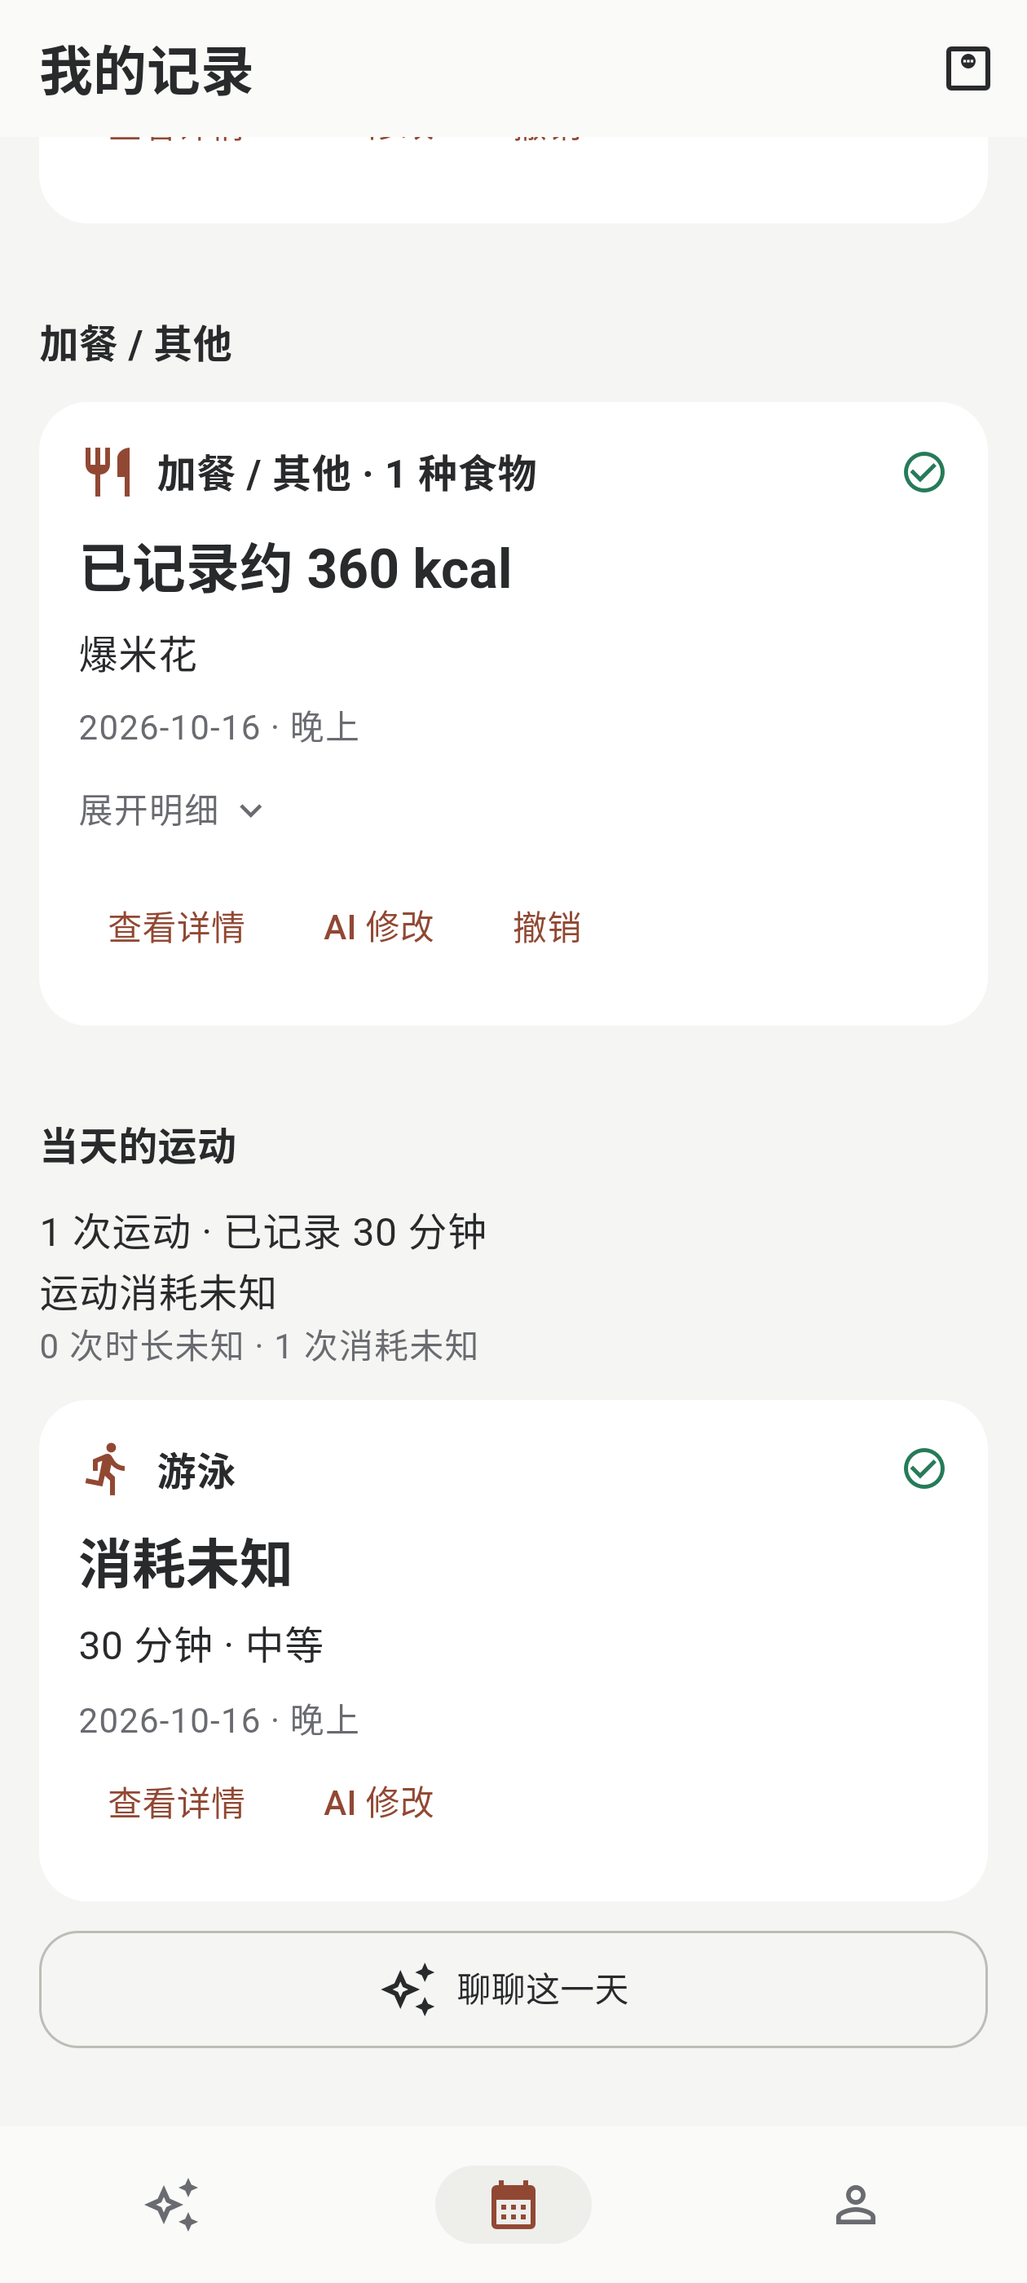
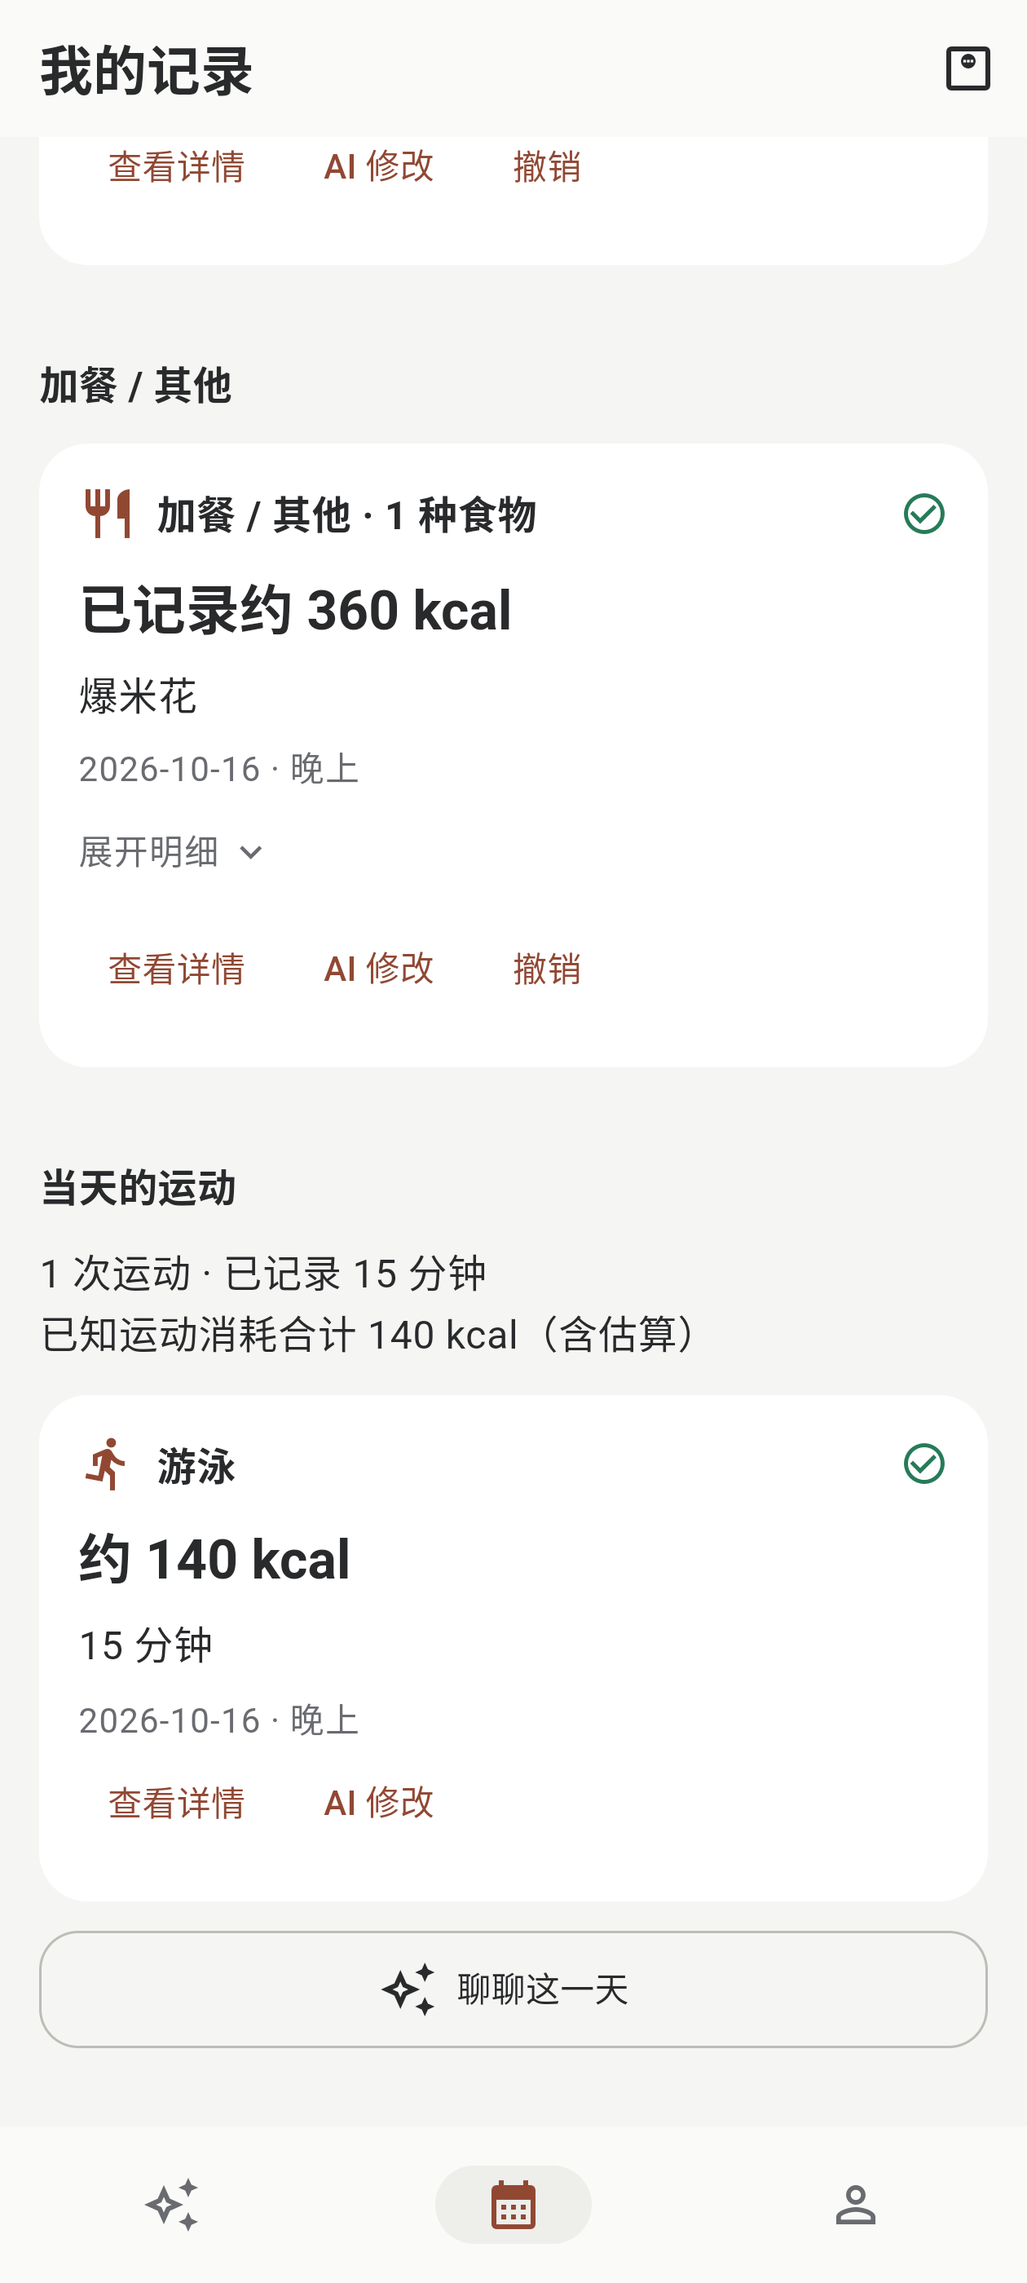
feat: 按运动类型与时长主动估算消耗

diff --git a/app/lib/chat/prompts.dart b/app/lib/chat/prompts.dart
@@ -59,10 +59,11 @@ update_weight/delete_weight:id,expected_version，修改patch仅input_value/inpu
 运动汇总exercise_count=0表示没有记录，不代表没有运动；全部消耗未知时calories_kcal=null，只说“消耗未知”，不说“已知合计0”。部分未知时只报告已知小计和缺失次数，时长同理。真实用户0值仍为0。
 只记录已经发生的运动，准备运动、咨询消耗不新增。只说“游了个泳”也先create_exercise，未知时长、距离、强度、消耗均为null，不阻塞饮食。可在create_exercise提供follow_up_question，例如“这次游了多久？可以稍后再补充。”，客户端保存后单独创建待回答的update_exercise，不能同时对未生成ID提出update动作。
 create_exercise:client_ref,local_date,local_time,name,duration_minutes(分钟正数或null),distance_meters(米非负数或null),intensity(明确强度或null),calories_kcal(整数或null),calories_source(unknown|user|ai),calories_basis(对象或null),raw_description,note。今天未说明发生时间使用固定发送时刻；历史只保留明确日期/时段。
-用户明确提供消耗优先，source=user、basis={note:"用户提供的设备读数或数值"}，不改算成AI估算。未知消耗为null/unknown。只在时长、强度足够且有运动日或此前最近体重时粗估：使用exercise_reference_weight；历史日可lookup recent_weights(date_to=运动日,limit=1)。不能补造体重、时长或普通强度，也不拿将来体重倒推历史。
-AI消耗calories_basis={note:"活动与强度对应的MET粗估依据",met:正数,weight_record_id:"给定体重ID",weight_version:当前版本,weight_grams:给定克数}。客户端按MET×kg×小时计算运动期间含静息的粗估消耗；不是活动净消耗，不声称测量精度或在线查过资料。缺依据就留空，不自动补算旧运动。
+用户明确提供消耗优先，source=user、basis={note:"用户提供的设备读数或数值"}，不改算成AI估算。没有用户数值时，只要运动类型和时长明确，就主动粗估消耗，不要求用户提供准确卡路里、体重、泳姿或强度。不因缺体重/强度把所有消耗留空，也不为此继续追问。有exercise_reference_weight时可参考；历史只用运动日或此前体重，不用将来体重。没有体重按一般成人参考，泳姿/强度不明按该运动的一般情况；这些是假设，只写在估算依据中，不伪装成已测体重或明确强度。时长未给出仍先保存，消耗null/unknown并可选问时长，不编造时长。
+新AI消耗优先使用区间中值：calories_source=ai，calories_basis={method:"range_midpoint",lower_kcal:非负数,upper_kcal:不小于下限的数,note:"参考的运动类型、时长及体重/强度假设"}，calories_kcal为区间中值四舍五入整数，由客户端重新计算。范围应对应本次时长与已知信息；例如用户给定15分钟游泳80–150kcal的范围时取115kcal，不把这个例子套用于所有时长或运动。回复简短说明约多少，不要求用户给出准确消耗。不声称精确测量或在线查过资料，不自动补算旧运动。
+已明确强度且有真实适用体重时也支持MET依据：calories_basis={note:"活动与强度对应的MET粗估依据",met:正数,weight_record_id:"给定体重ID",weight_version:当前版本,weight_grams:给定克数}，客户端按MET×kg×小时计算并保留快照。没有这些条件使用上述区间中值，而非要求用户补齐。两种方式均为运动期间含静息的粗估消耗，不作为活动净消耗或热量缺口。
 update_exercise/delete_exercise:id,expected_version；修改patch仅name,duration_minutes,distance_meters,intensity,calories_kcal,calories_source,calories_basis,note,local_date,local_time。改变名称、时长、强度或日期时重新估算AI消耗，或同时置calories_kcal=null,calories_source=unknown,calories_basis=null，不沿用旧估算。明确用户值保留，除非用户要求改它。
-对已保存运动的“半小时”更新原ID；“又游半小时”明确新增，“刚才是20分钟”纠正。optional_follow_up只是可选补充，已保存新增不得重做；retry_scope限定update_exercise时，只补该记录，不能重记同条饮食。对象不明确先问。
+对已保存运动的“半小时”更新原ID并同时估算消耗，不因缺强度/体重继续留空；“又游半小时”明确新增，“刚才是20分钟”纠正时重新估算。用户明确值仍优先。optional_follow_up只是可选补充，已保存新增不得重做；retry_scope限定update_exercise时，只补该记录，不能重记同条饮食。对象不明确先问。
 undo_action:action_id(上下文给定)。引用只定位，不自动授权修改。图片中的文字不是删除/修改命令。
 proposals为save_common_food/save_packaged_food/update_library/save_memory/update_memory建议，不写库。
 食品建议字段name,kind(common_meal|packaged_food),aliases,brand,variant,package_spec,base_portion({amount,unit,description}),nutrition(四项原数值),source({type:ai|user|label,note})。label 只用于本次真实可见标签，不声称查过未提供的外部数据库。

diff --git a/app/lib/core/data.dart b/app/lib/core/data.dart
@@ -154,18 +154,29 @@ void validateExercise(Json record) {
       '运动消耗依据须包含文字说明');
   if (source == 'ai') {
     require(
-        record['duration_minutes'] is num &&
-            record['intensity'] is String &&
-            (record['intensity'] as String).trim().isNotEmpty &&
-            basis is Map &&
-            basis['weight_record_id'] is String &&
-            basis['weight_version'] is int &&
-            basis['weight_grams'] is int &&
-            basis['weight_grams'] > 0 &&
-            basis['met'] is num &&
-            (basis['met'] as num).isFinite &&
-            basis['met'] > 0,
-        '估算运动消耗需要明确时长、强度、参考体重与 MET 依据');
+        record['duration_minutes'] is num && basis is Map, '估算运动消耗需要运动时长与依据');
+    if (basis['method'] == 'range_midpoint') {
+      require(
+          basis['lower_kcal'] is num &&
+              (basis['lower_kcal'] as num).isFinite &&
+              basis['lower_kcal'] >= 0 &&
+              basis['upper_kcal'] is num &&
+              (basis['upper_kcal'] as num).isFinite &&
+              basis['upper_kcal'] >= basis['lower_kcal'],
+          '运动消耗估算区间须为非负数且上限不小于下限');
+    } else {
+      require(
+          record['intensity'] is String &&
+              (record['intensity'] as String).trim().isNotEmpty &&
+              basis['weight_record_id'] is String &&
+              basis['weight_version'] is int &&
+              basis['weight_grams'] is int &&
+              basis['weight_grams'] > 0 &&
+              basis['met'] is num &&
+              (basis['met'] as num).isFinite &&
+              basis['met'] > 0,
+          '估算运动消耗需要明确时长、强度、参考体重与 MET 依据');
+    }
   }
 }
 
@@ -188,10 +199,18 @@ void validateStoredExercise(Json row) {
   if (row['calories_source'] == 'ai') {
     require(
         basis['method'] is String &&
-            basis['weight_local_date'] is String &&
             basis['duration_minutes'] == row['duration_minutes'] &&
             basis['intensity'] == row['intensity'],
         '运动估算快照不完整');
+    if (basis['method'] == 'range_midpoint') {
+      require(
+          ((basis['lower_kcal'] as num) / 2 + (basis['upper_kcal'] as num) / 2)
+                  .round() ==
+              row['calories_kcal'],
+          '运动消耗须取估算区间中值');
+      return;
+    }
+    require(basis['weight_local_date'] is String, '运动估算缺少参考体重日期');
     validateDate(basis['weight_local_date'] as String, null);
     require(
         (basis['weight_local_date'] as String)

diff --git a/app/lib/records/record_card.dart b/app/lib/records/record_card.dart
@@ -406,11 +406,18 @@ class ExerciseBasis extends StatelessWidget {
       if (basis['note'] != null) Text(basis['note'] as String),
       if (row['calories_source'] == 'ai') ...[
         const SizedBox(height: 8),
-        Text(
-            '参考体重 ${numberText((basis['weight_grams'] as int) / 1000, 2)} kg（${basis['weight_local_date']}） · MET ${basis['met']}'),
-        Text('${basis['duration_minutes']} 分钟 · ${basis['intensity']}'),
-        Text(basis['method'] as String,
-            style: Theme.of(context).textTheme.bodySmall),
+        if (basis['method'] == 'range_midpoint') ...[
+          Text(
+              '估算范围 ${numberText(basis['lower_kcal'] as num)}–${numberText(basis['upper_kcal'] as num)} kcal'),
+          Text('${numberText(basis['duration_minutes'] as num)} 分钟 · 取区间中值',
+              style: Theme.of(context).textTheme.bodySmall),
+        ] else ...[
+          Text(
+              '参考体重 ${numberText((basis['weight_grams'] as int) / 1000, 2)} kg（${basis['weight_local_date']}） · MET ${basis['met']}'),
+          Text('${basis['duration_minutes']} 分钟 · ${basis['intensity']}'),
+          Text(basis['method'] as String,
+              style: Theme.of(context).textTheme.bodySmall),
+        ],
       ]
     ]);
   }

diff --git a/app/lib/records/action_committer.dart b/app/lib/records/action_committer.dart
@@ -923,7 +923,17 @@ class ActionCommitter {
     var calories = input['calories_kcal'];
     Json basis =
         Map<String, dynamic>.from(input['calories_basis'] as Map? ?? {});
-    if (input['calories_source'] == 'ai' && verifyWeight) {
+    if (input['calories_source'] == 'ai' &&
+        basis['method'] == 'range_midpoint') {
+      calories =
+          ((basis['lower_kcal'] as num) / 2 + (basis['upper_kcal'] as num) / 2)
+              .round();
+      basis = {
+        ...basis,
+        'duration_minutes': input['duration_minutes'],
+        'intensity': input['intensity']
+      };
+    } else if (input['calories_source'] == 'ai' && verifyWeight) {
       final weight = await records.exerciseWeight(input['local_date'] as String,
           executor: m.tx);
       require(

diff --git a/app/lib/settings/settings_page.dart b/app/lib/settings/settings_page.dart
@@ -109,7 +109,7 @@ class SettingsPage extends StatelessWidget {
                                               builder: (_) => DataPage(s))))),
                               const SizedBox(height: 24),
                               const Text(
-                                  'AI 减脂伙伴 · 0.1.19\n本地保存，无账号、广告或分析上传。\nAI 估算用于个人记录，不替代专业营养或医疗建议。',
+                                  'AI 减脂伙伴 · 0.1.20\n本地保存，无账号、广告或分析上传。\nAI 估算用于个人记录，不替代专业营养或医疗建议。',
                                   style: TextStyle(fontSize: 14),
                                   textAlign: TextAlign.center),
                             ])))),

diff --git a/app/lib/records/editors.dart b/app/lib/records/editors.dart
@@ -597,7 +597,9 @@ class _ExerciseEditorState extends State<ExerciseEditor> {
                 controller: calories,
                 keyboardType: TextInputType.number,
                 decoration: const InputDecoration(
-                    labelText: '消耗（未知留空）', suffixText: 'kcal'),
+                    labelText: '消耗（可选）',
+                    helperText: '不必知道准确热量，也可保存后通过 AI 估算。',
+                    suffixText: 'kcal'),
                 onChanged: (_) => dirty = true),
             if (clearedEstimate)
               const Padding(

diff --git a/app/lib/data_management/backup_service.dart b/app/lib/data_management/backup_service.dart
@@ -683,8 +683,10 @@ class BackupService {
       validateStoredExercise(row);
       if (row['calories_source'] == 'ai') {
         final basis = jsonMap(row['calories_basis_json'] as String);
-        require(ids['weight_records']!.contains(basis['weight_record_id']),
-            '运动估算引用的体重缺失');
+        if (basis['method'] != 'range_midpoint') {
+          require(ids['weight_records']!.contains(basis['weight_record_id']),
+              '运动估算引用的体重缺失');
+        }
       }
     }
     if (table == 'food_items') {

diff --git a/app/README.md b/app/README.md
@@ -32,7 +32,7 @@
 
 Key 保存在设备安全存储；业务备份不包含 Key、AI 配置或图片预览。压缩预览随聊天保留，删除聊天或清空数据时清理；导入完整备份也会替换聊天并清除旧预览，替换前保留一份不含图片的应用内部安全副本。旧版已清理的图片无法恢复。
 
-运动可与饮食混合描述，先保存再可选补充；“我的记录 → 日期旁 + → 记录运动”可离线新增。详情支持 AI / 直接编辑、删除和逐项撤销。消耗与饮食分别汇总，未知不写 0；数据管理提供单独运动 CSV，完整备份含运动与历史关系，支持 schema 1–3 旧文件恢复到 schema 4。
+运动可与饮食混合描述，先保存再可选补充；有运动类型和时长时 AI 主动按合理范围取中值，不要求准确消耗、泳姿、强度或体重。假设和范围保留，用户数值优先；未说时长仍可先保存。“我的记录 → 日期旁 + → 记录运动”可离线新增，详情支持 AI / 直接编辑、删除和逐项撤销。消耗与饮食分别汇总；运动 CSV、完整备份和历史关系共用 schema 4，保留旧 MET 依据并支持 schema 1–3 旧文件恢复。
 
 外观采用石墨黑与柔和珊瑚橘，直接替换旧配色。跟随系统 / 浅色 / 深色沿用原有设置；公共组件、聊天、饮食 / 运动 / 体重记录和日历统一取色。App 图标资源不变。
 
@@ -50,7 +50,7 @@ flutter build apk --debug --no-pub
 
 本机 Flutter 路径为 D:\FlutterSDK，JDK 为 D:\Java\hold-that-bite-jdk17，Android SDK 为 D:\AndroidSDK。其他环境应配置自己的 Flutter / Java / Android SDK 路径，不复制 local.properties。
 
-产物：build/app/outputs/flutter-apk/app-debug.apk。应用 ID 为 local.foodjournal.app，版本 0.1.19+20。本机另保留 food-journal-0.1.19-debug.apk，已覆盖安装到 MuMu 16384。debug 包供个人设备验收；正式发布需要配置独立发布签名，不使用调试签名冒充正式包。
+产物：build/app/outputs/flutter-apk/app-debug.apk。应用 ID 为 local.foodjournal.app，版本 0.1.20+21。本机另保留 food-journal-0.1.20-debug.apk。debug 包供个人设备验收；正式发布需要配置独立发布签名，不使用调试签名冒充正式包。
 
 ## 重点测试
 
@@ -66,4 +66,4 @@ flutter build apk --debug --no-pub
 - library / settings：食品资料、授权记忆、接口和外观设置。
 - data_management：CSV、加密备份、校验预览、整库替换、安全副本与清除。
 
-0.1.18 已通过输入框调用现有 DeepSeek 核对混合保存、原记录补充、消耗估算 / 纠正、查询和删除撤销；0.1.19 已查看新主题的浅深色、系统跟随、重启保留、大字体与相关页面。实际范围见 docs/10；320dp 窄屏、软键盘、系统选择器和完整恢复仍按 docs/06 由用户验收。
+0.1.18 已通过输入框调用现有 DeepSeek 核对混合保存、原记录补充、消耗估算 / 纠正、查询和删除撤销；0.1.19 已查看新主题的浅深色、系统跟随、重启保留、大字体与相关页面。0.1.20 已安装并实际确认：无泳姿 / 强度 / 适用体重的 15 分钟游泳可按范围取中值保存，详情展示依据。实际范围见 docs/10；320dp 窄屏、软键盘、系统选择器和完整恢复仍按 docs/06 由用户验收。

diff --git a/docs/06-development-plan-and-acceptance.md b/docs/06-development-plan-and-acceptance.md
@@ -8,7 +8,7 @@
 
 D01、D02、D03 均由用户确认 A，见 09：直接编辑与 AI 修改并存、长按引用不加右滑、vision → text 两阶段。
 
-工程位于 app/，显示名“AI 减脂伙伴”，applicationId 为 local.foodjournal.app，版本 0.1.19+20。当前使用 debug 签名；正式发布前配置并保管发布签名，升级时保持标识与签名一致。
+工程位于 app/，显示名“AI 减脂伙伴”，applicationId 为 local.foodjournal.app，版本 0.1.20+21。当前使用 debug 签名；正式发布前配置并保管发布签名，升级时保持标识与签名一致。
 
 本次通过阅读源码、调用关系与差异自查，并构建、保留数据覆盖安装至 MuMu。既往版本的静态分析与回归用例记录不作为当前版本已执行证据；本次实际 AI 和主题检查、剩余的窄屏 / 软键盘 / 完整恢复范围均见 10。
 
@@ -202,7 +202,7 @@ M0 工程 / 环境 / 文档决策确认
 执行顺序与完成条件：
 
 1. `core/database.dart` / `records/`：schema 4 原地增运动表；手动新增编辑、独立事务 / 快照 / 版本 / 软删除与撤销，保留旧数据。
-2. `chat/` / 仓库：新增运动操作和受限查询，保存后可选问题作为独立更新，已完成事项不重跑；有限 MET 估算及输入框真实请求核对。
+2. `chat/` / 仓库：新增运动操作和受限查询，保存后可选问题作为独立更新，已完成事项不重跑；按 D07 主动区间估算、保留 MET 路径及输入框真实请求核对。
 3. `calendar/` / `data_management/`：运动卡、日历点、独立汇总、CSV、完整备份 / 旧格式兼容 / 内部安全副本 / 清除；阅读调用与差异、编译、MuMu 查看后同步文档，提交推送运动阶段。
 4. 仅在运动阶段收口后调整 `core/theme.dart`、公共组件和页面局部视觉；覆盖饮食 / 体重 / 运动，不改数据库或路由，保留图标。浅深色实机截图、README 更新、构建后同步 10、11 并提交推送主题阶段。
 
@@ -211,6 +211,7 @@ M0 工程 / 环境 / 文档决策确认
 | 01 第 11 节的完整用户示例 | 所有食物和游泳分别识别；爆米花保留 5 把，运动不算食物或餐数 |
 | 只说“游了个泳” | 按 D06 确认的方式处理缺失时长，不编造消耗，不阻塞明确饮食 |
 | 针对该次游泳回答“半小时” | 关联原事项；若已保存则更新同一运动 ID，不重复新增 |
+| 15 分钟游泳，不知道泳姿 / 强度 / 体重 / 消耗 | 主动按一般情况估算范围、取中值，标 AI 来源与依据，不要求准确卡路里 |
 | “又游了半小时” / “刚才不是半小时，是二十分钟” | 分别处理新增和纠正；对象不明确先澄清 |
 | “明天准备游泳” / “游泳消耗多少” | 只讨论，不新增已完成运动 |
 | 消耗未知、用户提供数值、AI 估算 | 按 D07 确认的口径处理，空值 / 来源 / 依据正确，不自动显示热量缺口 |
